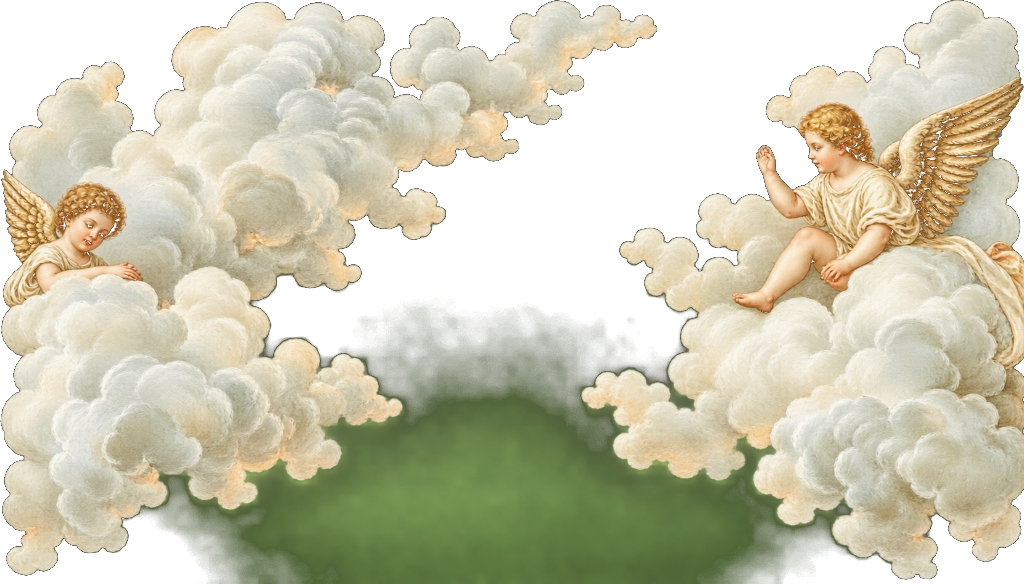
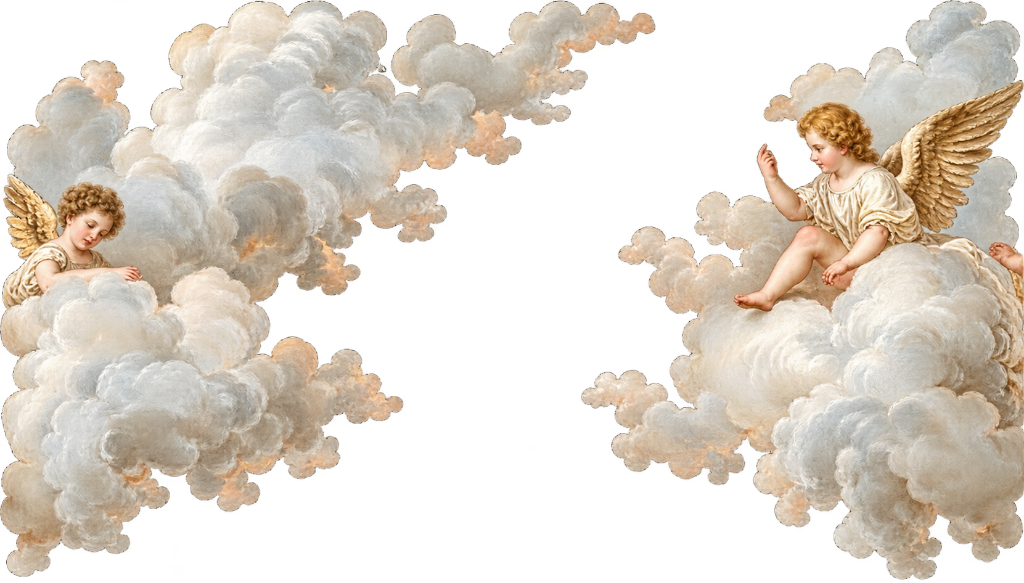
feat: adiciona anjos renascentistas em PNG transparente nativo no pre-footer estilo abacatepay

diff --git a/src/App.tsx b/src/App.tsx
@@ -835,6 +835,15 @@ export default function App() {
         <p className="pre-footer-footnote">
           Sem mensalidade. Aprovação não leva semanas.
         </p>
+
+        {/* Ilustração Barroca dos Anjos nas Nuvens estilo AbacatePay */}
+        <div className="pre-footer-art-wrap">
+          <img 
+            src="/assets/pre-footer-cherubs.png" 
+            alt="Anjos nas nuvens" 
+            className="pre-footer-art-img" 
+          />
+        </div>
       </section>
 
       <footer className="footer-wrap">
